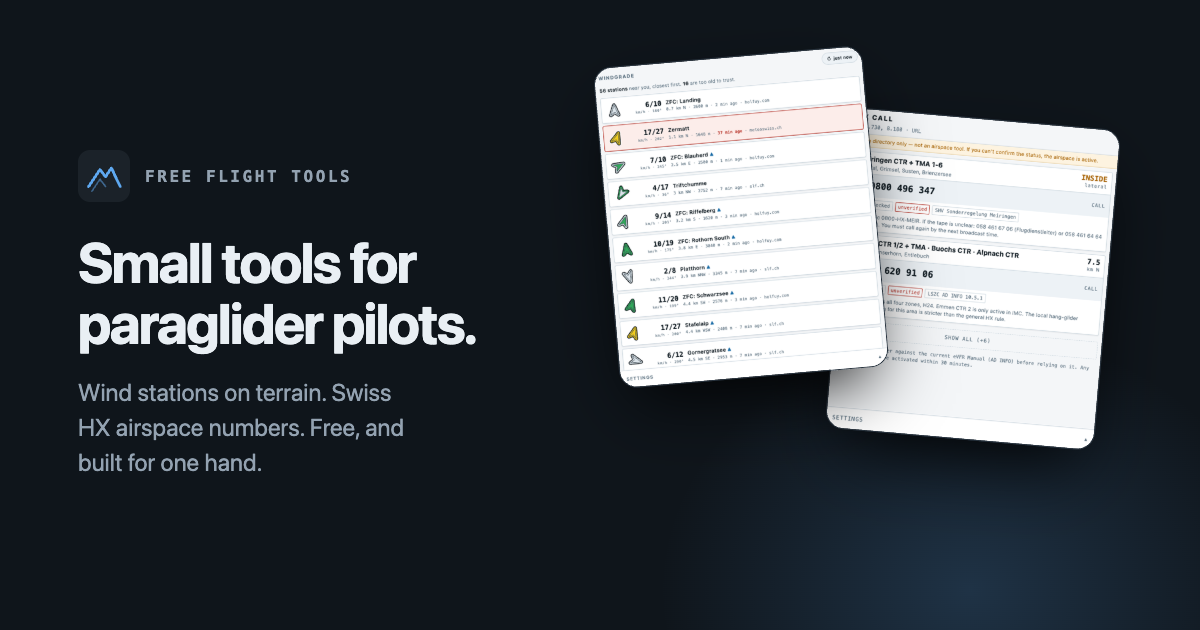
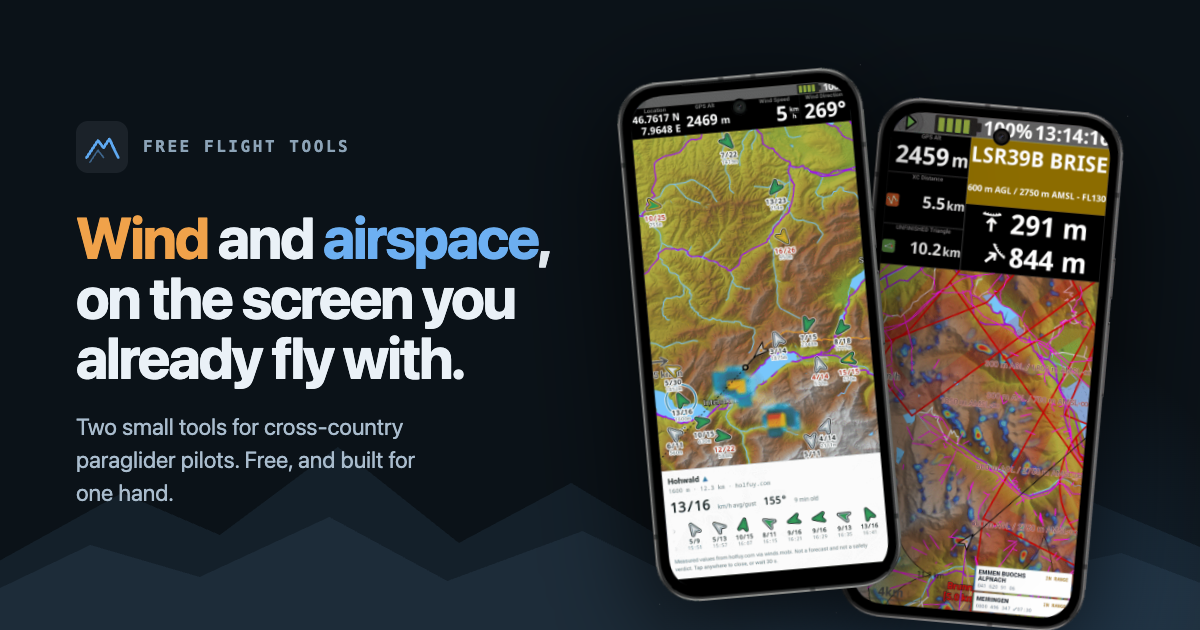
Rebuild the social card, and correct the HX Call claim
The card people actually see when the link is pasted was the last place
still showing the old screenshots, and worse, the render was old enough
to be captioned WINDGRADE, a product name dropped in the rename. It also
used the two list-page captures, which at preview size are two pale
slabs of unreadable rows.

Rebuilt around the same two widget-in-flight phones the page now uses,
on the site's own ridge, with the headline that opens the page. The
phones are sized and placed so HX Call's chips clear the bottom edge:
the first framing let the bleed eat them, which left the second phone
contributing nothing but a shape.

Separately, "Works with no signal" was wrong. Placing a call is the
tool's whole purpose, so signal is precisely what it needs; what it does
not need is a data connection. Both the page and the README now say that
instead, with the caveat attached rather than implied.

diff --git a/tools/og-card.html b/tools/og-card.html
@@ -14,42 +14,72 @@
              --window-size=1200,630 --screenshot=img/og-hub.png \
              "http://localhost:8080/tools/og-card.html"
 
-     The two screenshots come from img/, which the site already ships, so
-     this card can never show something the site does not.
+     THE PHONES ARE THE SITE'S OWN FILES, so this card can never show
+     something the site does not. They are the widget-in-flight captures,
+     not the standalone list pages: at 270px wide a list of rows is a grey
+     smear, while terrain with arrows on it survives the size. That is the
+     test for anything put here. A card is read at a glance, in a chat, at
+     whatever size the client picks.
+
+     NO FRAME OF OURS. The captures bring their own device frame and a
+     transparent surround, so a border, a radius and overflow:hidden would
+     draw a second frame inside the first. A drop-shadow filter follows the
+     real silhouette; box-shadow would draw the shadow of the bounding box.
+
+     THIS FILE IS THE ONLY COPY OF THE CARD. The png is a render, so if the
+     wording changes here it does not reach anybody until the command above
+     is run again and the png is committed. The previous render sat for
+     months showing "WINDGRADE", a product name dropped in the rename.
      ═══════════════════════════════════════════════════════════════════ -->
 <style>
   @page{margin:0}
   *{box-sizing:border-box;margin:0}
   body{
     width:1200px;height:630px;overflow:hidden;position:relative;
-    background:#0F151B;color:#E9EFF4;display:flex;align-items:center;
+    background:#0B1218;color:#EAF1F7;display:flex;align-items:center;
     font-family:system-ui,-apple-system,"Segoe UI",Roboto,sans-serif;
   }
-  .l{width:600px;padding-left:78px;flex:none;position:relative;z-index:2}
-  .brand{display:flex;align-items:center;gap:15px;margin-bottom:30px}
+  /* the ridge from the site's hero, so the card and the page it opens
+     share a horizon */
+  .ridge{position:absolute;left:-4%;width:108%;bottom:-1px;height:250px;z-index:0}
+
+  .l{width:620px;padding-left:76px;flex:none;position:relative;z-index:2}
+  .brand{display:flex;align-items:center;gap:15px;margin-bottom:34px}
   .brand .nm{
     font:600 16px ui-monospace,monospace;letter-spacing:.16em;
-    text-transform:uppercase;color:#93A2B1;
+    text-transform:uppercase;color:#8CA3B7;
   }
-  h1{font-size:56px;line-height:1.08;letter-spacing:-.032em;font-weight:700;max-width:12ch}
-  p{margin-top:22px;font-size:24px;line-height:1.45;color:#93A2B1;max-width:23ch}
+  h1{font-size:58px;line-height:1.04;letter-spacing:-.034em;font-weight:730;max-width:13ch}
+  h1 em{font-style:normal}
+  h1 .w{color:#F0A24A}
+  h1 .a{color:#6DB0F2}
+  p{margin-top:24px;font-size:23px;line-height:1.42;color:#A9BCCD;max-width:25ch}
+
   .r{flex:1;position:relative;height:100%}
-  /* Two phones, offset and tilted, so the pair reads as a family at a
-     glance rather than as one screenshot with something behind it. */
-  .ph{
-    position:absolute;width:270px;border-radius:18px;overflow:hidden;
-    border:1px solid #28333E;box-shadow:0 30px 70px -18px rgba(0,0,0,.95);line-height:0;
-  }
-  .ph img{display:block;width:100%;height:auto}
-  .ph.a{top:56px;left:6px;transform:rotate(-5deg);z-index:2}
-  .ph.b{top:118px;left:238px;transform:rotate(5deg);z-index:1}
   .glow{
-    position:absolute;inset:auto -80px -220px 60px;height:520px;z-index:0;
-    background:radial-gradient(closest-side,rgba(94,168,240,.20),transparent);
+    position:absolute;inset:auto -60px -240px 40px;height:560px;z-index:0;
+    background:radial-gradient(closest-side,rgba(94,168,240,.22),transparent);
   }
+  /* Two phones, offset and tilted, so the pair reads as a family at a
+     glance rather than as one screenshot with something behind it.
+     Windmap in front: terrain and arrows carry further than chips do. */
+  .ph{position:absolute;width:248px;line-height:0;filter:drop-shadow(0 30px 52px rgba(0,0,0,.85))}
+  .ph img{display:block;width:100%;height:auto}
+  /* Sized and placed so HX Call's chips clear the bottom edge: they sit in
+     the last 15% of that capture, and at the first framing the bleed ate
+     them, which left the second phone contributing nothing but a shape. */
+  .ph.a{top:74px;left:16px;transform:rotate(-5deg);z-index:2}
+  .ph.b{top:104px;left:238px;transform:rotate(5deg);z-index:1}
 </style>
 </head>
 <body>
+<svg class="ridge" viewBox="0 0 900 250" preserveAspectRatio="none" aria-hidden="true">
+  <path d="M0,206 L118,112 L186,154 L268,66 L352,162 L430,102 L520,180 L604,78 L700,164 L790,120 L900,186 L900,250 L0,250 Z"
+        fill="#16222D" opacity=".85"/>
+  <path d="M0,230 L96,164 L172,196 L262,136 L344,200 L438,150 L528,214 L622,138 L716,202 L812,172 L900,220 L900,250 L0,250 Z"
+        fill="#1D2C39"/>
+</svg>
+
 <div class="l">
   <div class="brand">
     <svg width="52" height="52" viewBox="0 0 64 64" aria-hidden="true">
@@ -61,13 +91,14 @@
     </svg>
     <div class="nm">Free Flight Tools</div>
   </div>
-  <h1>Small tools for paraglider pilots.</h1>
-  <p>Wind stations on terrain. Swiss HX airspace numbers. Free, and built for one hand.</p>
+  <h1><em class="w">Wind</em> and <em class="a">airspace</em>, on the screen you already fly with.</h1>
+  <p>Two small tools for cross-country paraglider pilots. Free, and built for one hand.</p>
 </div>
+
 <div class="r">
   <div class="glow"></div>
-  <div class="ph a"><img src="../img/windmap.png" alt=""></div>
-  <div class="ph b"><img src="../img/hxcall.png" alt=""></div>
+  <div class="ph a"><img src="../img/windmap-widget.png" alt=""></div>
+  <div class="ph b"><img src="../img/hxcall-widget.png" alt=""></div>
 </div>
 </body>
 </html>

diff --git a/index.html b/index.html
@@ -53,7 +53,7 @@
      AUTOMATIC TRANSLATION goes in the marked slot at the bottom of
      <body>, and only on this page plus the two setup pages. Never on
      app.html or widget.html in either repo: those are read in the air,
-     HX Call exists to work with no signal, and a third-party script
+     HX Call exists to work with no data connection, and a third-party
      would put a network dependency inside that guarantee.
      ═══════════════════════════════════════════════════════════════════ -->
 <style>
@@ -367,7 +367,10 @@ footer a{color:#7FB6EE}
         the right number for wherever you are.
       </p>
       <ul class="pts">
-        <li><b>Works with no signal</b>, which is the whole point of it</li>
+        <!-- Not "works with no signal": the tool's whole purpose is placing a
+             call, so it needs signal for that. What it does not need is a
+             DATA connection, and the distinction is the honest one. -->
+        <li>Needs <b>no data connection</b>, only enough signal to dial</li>
         <li>13 zones, and the ones with <b>no number yet</b> are still listed</li>
         <li>A <b>re-check clock</b> per zone, because one call is not enough</li>
       </ul>
@@ -439,7 +442,7 @@ footer a{color:#7FB6EE}
 <!-- ══ AUTOMATIC TRANSLATION ═══════════════════════════════════════════
      GTranslate, on this page and the two setup pages ONLY. Never on
      app.html or widget.html in either tool repo: those are read in the
-     air, HX Call exists to work with no signal, and a third-party script
+     air, HX Call exists to work with no data connection, and a third-party
      would put a network dependency inside that guarantee.
 
      At the end of <body> and `defer`red, so it cannot block the first

diff --git a/README.md b/README.md
@@ -6,7 +6,7 @@ pilots. Live at **[freeflight-tools.github.io](https://freeflight-tools.github.i
 | | |
 |---|---|
 | **[Windmap](https://github.com/freeflight-tools/xctrack-windmap)** | Wind stations near you, drawn where they actually are. An XCTrack overlay plus a standalone list. |
-| **[HX Call](https://github.com/freeflight-tools/hx-call)** | The phone number that says whether a Swiss HX airspace is active. Works with no signal. |
+| **[HX Call](https://github.com/freeflight-tools/hx-call)** | The phone number that says whether a Swiss HX airspace is active. Needs no data connection, only enough signal to dial. |
 
 ## What's in here
 
